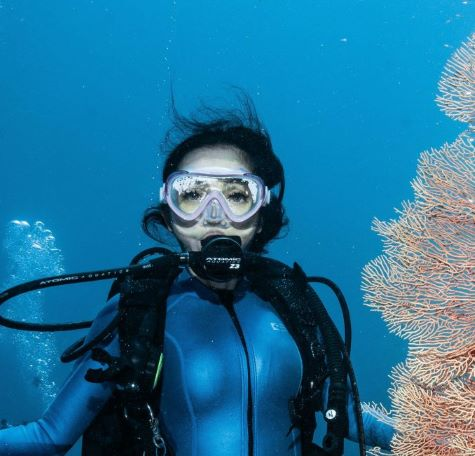
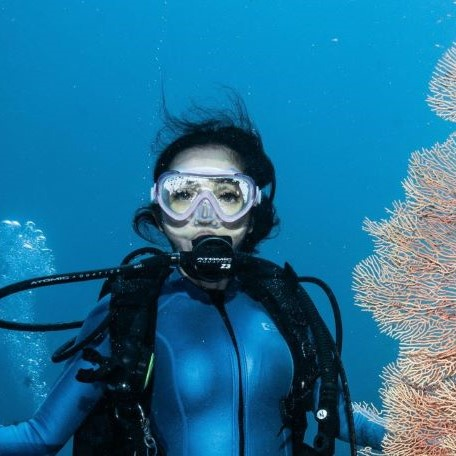
Add square images to ensure aspect ratio is not forced

diff --git a/assets/css/style.css b/assets/css/style.css
@@ -162,7 +162,7 @@ td {
 
 .reviews img {
     border-radius: 50%;
-    height: 80px;
+    height: auto;
     width: 80px;
     flex-shrink: 0;
 }
